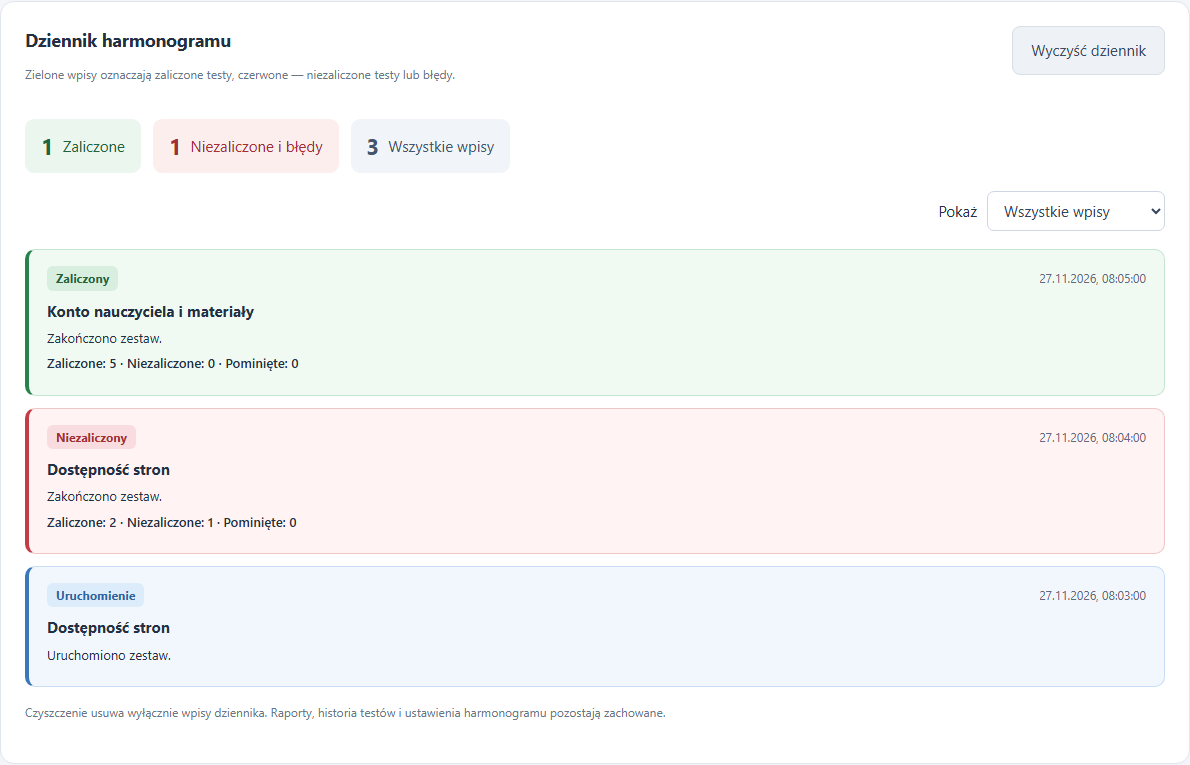
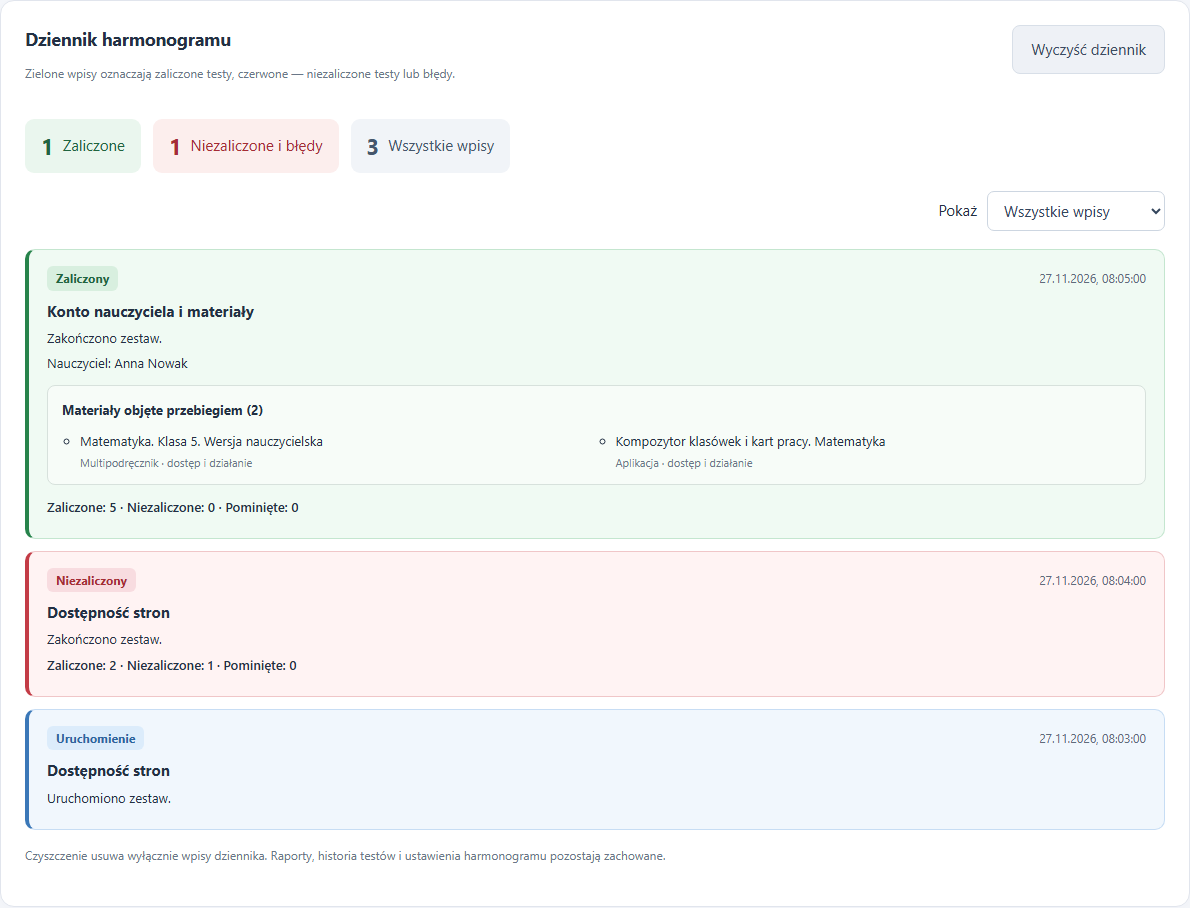
Clarify schedule selection, add dark theme and show run materials

diff --git a/dashboard/schedule.js b/dashboard/schedule.js
@@ -1,10 +1,25 @@
 (()=>{
- const $=s=>document.querySelector(s),form=$('#schedule-form');let saved=null,dirty=false,pending=false,revision=-1;
+ const $=s=>document.querySelector(s),form=$('#schedule-form');let saved=null,dirty=false,pending=false,revision=-1,profiles=[];
  const when=value=>value?new Date(value).toLocaleString('pl-PL',{timeZone:'Europe/Warsaw'}):'—';
  const labels={ENABLED:'Włączono',DISABLED:'Wyłączono',START:'Początek cyklu',RUN:'Uruchomienie',PASS:'Zaliczony',FAIL:'Niezaliczony',ERROR:'Błąd',SKIPPED:'Pominięto',STOP:'Zatrzymano kolejkę',END:'Koniec cyklu'};
- form.addEventListener('input',()=>{dirty=true;});
+ function scope(suites,profileId){
+  const parts=[],teacher=profiles.find(profile=>profile.id===profileId);
+  if(suites.includes('functional')){const resources=(teacher?.resources||[]).filter(resource=>resource.enabled!==false);const count=1+resources.reduce((total,resource)=>total+1+(resource.checkMode==='access'?0:1),0);parts.push('Konto i materiały — '+(teacher?.label||'wybierz nauczyciela')+(resources.length?' ('+count+' kontroli)':' (brak przypisanych materiałów)'));}
+  if(suites.includes('websites'))parts.push('Dostępność stron — 3 kontrole bez logowania');
+  if(suites.includes('services'))parts.push('Endpointy healthcheck — 9 kontroli');
+  return parts.join(' + ');
+ }
+ function renderSelection(){
+  if(!saved)return;
+  const suites=['functional','websites'].filter(suite=>form.elements[suite].checked),note=$('#schedule-selection'),teacherStep=$('#schedule-teacher-step');
+  if(note)note.textContent=suites.length?(dirty?'Do zapisania: ':'Wybrane testy: ')+scope(suites,form.elements.profileId.value):'Nie wybrano testów. Zaznacz co najmniej jeden zestaw.';
+  if(teacherStep)teacherStep.hidden=!form.elements.functional.checked;
+  form.querySelector('[type=submit]').disabled=pending||!suites.length;
+  $('#schedule-now').disabled=pending||saved.running||dirty||!suites.length;
+ }
+ form.addEventListener('input',()=>{dirty=true;renderSelection();});
  const options=()=>({enabled:form.elements.enabled.checked,intervalMinutes:Number(form.elements.intervalMinutes.value),suites:['functional','websites'].filter(s=>form.elements[s].checked),profileId:form.elements.profileId.value,revision:saved.revision});
- async function send(path,input){pending=true;try{const response=await fetch(path,{method:'POST',headers:{'Content-Type':'application/json','X-Health-Token':$('meta[name=health-token]').content},body:JSON.stringify(input)});const data=await response.json();if(!response.ok)throw new Error(data.error);saved=data.schedule;dirty=false;revision=-1;$('#schedule-message').textContent='Zapisano. Rozpoczęty test może się dokończyć.';await window.refreshMojeGwo?.();}catch(e){$('#schedule-message').textContent=e.message;}finally{pending=false;}}
+ async function send(path,input){pending=true;try{const response=await fetch(path,{method:'POST',headers:{'Content-Type':'application/json','X-Health-Token':$('meta[name=health-token]').content},body:JSON.stringify(input)});const data=await response.json();if(!response.ok)throw new Error(data.error);saved=data.schedule;dirty=false;revision=-1;$('#schedule-message').textContent=path.endsWith('/run')?'Uruchomiono zapisane testy.':saved.enabled?'Zapisano wybór testów i włączono harmonogram.':'Zapisano ustawienia. Automatyczne uruchamianie jest wyłączone.';await window.refreshMojeGwo?.();}catch(e){$('#schedule-message').textContent=e.message;}finally{pending=false;}}
  form.onsubmit=e=>{e.preventDefault();void send('/api/schedule',options());};
  $('#schedule-disable').onclick=()=>saved&&send('/api/schedule',{...saved,enabled:false});
  $('#schedule-now').onclick=()=>send('/api/schedule/run',{});
@@ -27,6 +42,13 @@
    const title=document.createElement('strong');title.className='schedule-event-title';title.textContent=({functional:'Konto nauczyciela i materiały',websites:'Dostępność stron',services:'Endpointy healthcheck'})[event.suite]||'Harmonogram';
    const message=document.createElement('p');message.textContent=event.message;
    li.append(top,title,message);
+   if(event.suite==='functional'&&['PASS','FAIL','ERROR'].includes(event.type)){
+    if(event.profileLabel){const teacher=document.createElement('p');teacher.textContent='Nauczyciel: '+event.profileLabel;li.append(teacher);}
+    if(Array.isArray(event.materials)){
+     const box=document.createElement('div');box.className='schedule-materials';const heading=document.createElement('strong');heading.textContent='Materiały objęte przebiegiem ('+event.materials.length+')';box.append(heading);
+     const list=document.createElement('ul');for(const material of event.materials){const item=document.createElement('li');const name=document.createElement('span');name.textContent=material.title;const mode=document.createElement('small');mode.textContent=(material.kind==='multipodrecznik'?'Multipodręcznik':'Aplikacja')+' · '+(material.checkMode==='access'?'tylko dostęp':'dostęp i działanie');item.append(name,mode);list.append(item);}box.append(list);li.append(box);
+    }else if(event.runId){const note=document.createElement('p');note.className='hint';note.textContent='Brak zapisanej listy materiałów dla tego starszego przebiegu. Sprawdź raport.';li.append(note);}
+   }
    if(event.counts){const counts=document.createElement('p');counts.className='schedule-event-counts';counts.textContent='Zaliczone: '+(event.counts.passed||0)+' · Niezaliczone: '+(event.counts.failed||0)+' · Pominięte: '+(event.counts.skipped||0);li.append(counts);}
    if(/^\/report\/[a-f0-9-]{36}\/$/.test(event.report||'')){const link=document.createElement('a');link.href=window.mojeGwoURL(event.report);link.target='_blank';link.rel='noopener';link.textContent='Otwórz raport ↗';li.append(link);}
    return li;
@@ -45,15 +67,14 @@
   finally{pending=false;renderEvents();await window.refreshMojeGwo?.();}
  };
  window.renderSchedule=state=>{
-  if(!state.schedule)return;saved=state.schedule;const s=saved;
+  if(!state.schedule)return;saved=state.schedule;profiles=state.profiles.teachers;const s=saved;
   $('#schedule-status').textContent=s.running?'Cykl w toku':s.enabled?'Harmonogram włączony':'Harmonogram wyłączony';
   $('#schedule-next').textContent=s.enabled?'Następny cykl: '+when(s.nextRunAt)+' · co '+s.intervalMinutes+' min':'Brak zaplanowanego uruchomienia.';
   if(!dirty&&revision!==s.revision){revision=s.revision;form.elements.enabled.checked=s.enabled;form.elements.intervalMinutes.value=s.intervalMinutes;for(const suite of ['functional','websites'])form.elements[suite].checked=s.suites.includes(suite);const select=form.elements.profileId;select.replaceChildren(...state.profiles.teachers.filter(t=>t.enabled).map(t=>{const o=document.createElement('option');o.value=t.id;o.textContent=t.label;return o;}));select.value=s.profileId;}
-  const roots=[];
-  $('#schedule-health-note').textContent=roots.length?'Uwaga: adresy healthchecków wskazują strony główne. Zestaw endpointów będzie wykazywał błędy kontraktu, dopóki nie wpiszesz właściwych endpointów w „Healthcheck usług”.':'Dostępność stron nie wymaga endpointów JSON ani konta nauczyciela. Sprawdzamy publiczne ekrany, bez logowania.';
+  const savedScope=$('#schedule-saved-scope');if(savedScope)savedScope.textContent='Zapisany zakres: '+scope(s.suites,s.profileId);
+  renderSelection();
   $('#schedule-now').disabled=pending||s.running||state.running||state.busy||dirty;
   $('#schedule-disable').disabled=pending||!s.enabled;
-  form.querySelector('[type=submit]').disabled=pending;
   renderEvents();
  };
 })();

diff --git a/dashboard/panel.css b/dashboard/panel.css
@@ -7,3 +7,7 @@
 #service-health-form input[type=url]{width:100%;font:inherit;padding:10px;border:1px solid #cdd6e1;border-radius:6px}#service-health-form label:has(input[type=url]){display:block}#service-health-message,#suite-readiness{color:var(--accent)}
 main,article,.metrics>*{min-width:0}.metrics strong{overflow-wrap:anywhere}@media(max-width:500px){.metrics{grid-template-columns:1fr}.heading select{width:100%}header label{flex-wrap:wrap}}
 .schedule-journal .heading{align-items:flex-start}.schedule-journal h3{margin-bottom:8px}.schedule-summary{display:flex;flex-wrap:wrap;gap:12px;margin:18px 0}.schedule-total{display:flex;align-items:center;gap:9px;padding:10px 16px;border-radius:9px;background:#f1f4f8;color:#45566c}.schedule-total strong{font-size:22px}.schedule-total--pass{background:#eaf6ee;color:#206540}.schedule-total--fail{background:#fceeed;color:#a62c35}.schedule-filter{justify-content:flex-end}.schedule-events{list-style:none;padding:0;margin:16px 0;display:grid;gap:12px}.schedule-event{margin:0;padding:16px 18px;border:1px solid #dce4ed;border-left:4px solid #a5b2c3;border-radius:10px;background:#fafbfd}.schedule-event--pass{border-color:#c4e6cf;border-left-color:#27834b;background:#f0faf3}.schedule-event--fail{border-color:#f0c6c8;border-left-color:#c33c46;background:#fff3f3}.schedule-event--running{border-color:#c7ddf4;border-left-color:#3b78b8;background:#f1f7fd}.schedule-event-top{display:flex;justify-content:space-between;align-items:center;gap:12px;margin-bottom:9px}.schedule-event-top time{font-size:12px;color:#5f6b7c}.schedule-event-badge{padding:3px 9px;border-radius:6px;font-size:12px;font-weight:700;background:#e6ebf1;color:#42536a}.schedule-event--pass .schedule-event-badge{background:#d8efdf;color:#206540}.schedule-event--fail .schedule-event-badge{background:#f8dce0;color:#a62c35}.schedule-event--running .schedule-event-badge{background:#dcecfb;color:#2d649e}.schedule-event-title{display:block;font-size:15px}.schedule-event p{margin:5px 0;font-size:13px}.schedule-event-counts{font-weight:600}.schedule-event a{display:inline-block;margin-top:8px;font-weight:600}.schedule-empty{padding:26px;text-align:center;background:#f6f8fb;border:1px dashed #d1dae6;border-radius:10px;color:#607084}@media(max-width:600px){.schedule-event-top{align-items:flex-start;flex-direction:column;gap:6px}.schedule-filter{justify-content:flex-start}.schedule-total{flex:1;min-width:140px}.schedule-journal .heading button{width:100%}}
+.theme-choice{float:right;margin:0 0 18px 20px}.schedule-setup fieldset{min-width:0;border:1px solid #dce3ed;border-radius:12px;padding:18px 20px;margin:24px 0}.schedule-setup legend{padding:0 8px;font-weight:700;font-size:17px}.schedule-test-choices{display:grid;grid-template-columns:repeat(2,minmax(0,1fr));gap:14px}.schedule-test-choice{align-items:flex-start;margin:0;border:1px solid #dce3ed;border-radius:10px;padding:17px;background:#fafbfd;cursor:pointer}.schedule-test-choice:has(input:checked){border-color:var(--accent);background:#f3f0f8}.schedule-test-choice input{flex:0 0 auto;margin-top:4px}.schedule-test-choice strong,.schedule-test-choice small{display:block}.schedule-test-choice small{margin-top:7px;font-size:13px;line-height:1.6;color:#5f6d80}.schedule-state{padding:16px 20px;border-radius:10px;background:#f3f0f8;border:1px solid #e3dced}.schedule-state p{margin:6px 0;font-size:13px}.schedule-selection{padding:12px 14px;border-radius:8px;background:#eef3f8;font-size:13px;margin:15px 0 0}.schedule-setup input[type=number]{font:inherit;width:100px;padding:9px 12px;border:1px solid #cdd6e1;border-radius:7px;background:white;color:#34465d}.schedule-help{margin-top:24px;font-size:13px;color:#617085}.schedule-help summary{cursor:pointer;font-weight:600}.schedule-help p{margin-top:10px}.schedule-setup label:has(input[type=number]){flex-wrap:wrap}@media(max-width:900px){.schedule-test-choices{grid-template-columns:1fr}}@media(max-width:600px){.theme-choice{float:none;margin:0 0 15px}.schedule-setup fieldset{padding:12px}.schedule-state{padding:12px}.schedule-setup .actions button{width:100%}}
+:root[data-theme=dark]{color-scheme:dark;color:#e2e9f2;background:#101722}:root[data-theme=light]{color-scheme:light}:root[data-theme=dark] body{--accent:#89cfba}:root[data-theme=dark] body[data-environment=prod]{--accent:#bea5df}:root[data-theme=dark] .sidebar,:root[data-theme=dark] article,:root[data-theme=dark] dialog{background:#1a2433;border-color:#354257;color:#e2e9f2}:root[data-theme=dark] nav a,:root[data-theme=dark] small,:root[data-theme=dark] header p,:root[data-theme=dark] .hint,:root[data-theme=dark] th,:root[data-theme=dark] .schedule-help,:root[data-theme=dark] .schedule-test-choice small{color:#acbbcf}:root[data-theme=dark] nav a.active,:root[data-theme=dark] .secondary,:root[data-theme=dark] .teacher-item.selected{background:#2a374c;color:#e4dcf3;border-color:#50617b}:root[data-theme=dark] input:not([type=checkbox]):not([type=hidden]),:root[data-theme=dark] select{background:#131e2e;color:#e2e9f2;border-color:#52617a}:root[data-theme=dark] button:not(.secondary),:root[data-theme=dark] .button{color:#14202e}:root[data-theme=dark] button.teacher-item{color:#e2e9f2;border-color:#48576f}:root[data-theme=dark] dialog details,:root[data-theme=dark] .badge{background:#303b50;color:#d5c3ed}:root[data-theme=dark] td,:root[data-theme=dark] th{border-color:#354257}:root[data-theme=dark] .preview,:root[data-theme=dark] .schedule-selection,:root[data-theme=dark] .schedule-total,:root[data-theme=dark] .schedule-empty{background:#202e42;color:#c6d3e6;border-color:#42516a}:root[data-theme=dark] .schedule-state{background:#2a263b;border-color:#544467}:root[data-theme=dark] .schedule-setup fieldset,:root[data-theme=dark] .schedule-test-choice{border-color:#44546d}:root[data-theme=dark] .schedule-test-choice{background:#172333}:root[data-theme=dark] .schedule-test-choice:has(input:checked){background:#302a42;border-color:#bea5df}:root[data-theme=dark] .schedule-event{background:#202c3d;border-color:#44546d}:root[data-theme=dark] .schedule-event--pass,:root[data-theme=dark] .schedule-total--pass{background:#18362b;border-color:#34674f;color:#a5e2bc}:root[data-theme=dark] .schedule-event--fail,:root[data-theme=dark] .schedule-total--fail{background:#40262d;border-color:#8d4854;color:#ffbdc5}:root[data-theme=dark] .schedule-event--running{background:#1c324d;border-color:#45688e}:root[data-theme=dark] .schedule-event-badge{background:#354157;color:#dce5f3}:root[data-theme=dark] .schedule-event--pass .schedule-event-badge{background:#29513d;color:#b0ecc4}:root[data-theme=dark] .schedule-event--fail .schedule-event-badge{background:#673440;color:#ffd1d7}:root[data-theme=dark] .schedule-event-top time{color:#acbbcf}:root[data-theme=dark] .pass{color:#9cddb6}:root[data-theme=dark] .fail{color:#ffabb7}
+
+.schedule-materials{margin:12px 0;padding:12px 14px;border:1px solid #d7e1dc;border-radius:8px;background:#ffffff70}.schedule-materials>strong{font-size:13px}.schedule-materials ul{display:grid;grid-template-columns:repeat(2,minmax(0,1fr));gap:10px 20px;padding-left:18px;margin:10px 0 0}.schedule-materials li{margin:0;font-size:13px}.schedule-materials small{display:block;font-size:11px;margin-top:3px}:root[data-theme=dark] .schedule-materials{background:#10172255;border-color:#4c6258}:root[data-theme=dark] dialog [role=alert],:root[data-theme=dark] #teacher-message{color:#ffb3be}@media(max-width:700px){.schedule-materials ul{grid-template-columns:1fr}}

diff --git a/dashboard/theme.js b/dashboard/theme.js
@@ -1,0 +1,9 @@
+(() => {
+ const key='qa_ui_theme',allowed=['auto','light','dark'],system=matchMedia('(prefers-color-scheme: dark)');
+ function read(){try{const cookie=document.cookie.split(';').map(part=>part.trim()).find(part=>part.startsWith(key+'='));const value=cookie?decodeURIComponent(cookie.slice(key.length+1)):localStorage.getItem(key);return allowed.includes(value)?value:'auto';}catch{return 'auto';}}
+ function apply(value){document.documentElement.dataset.theme=value==='auto'?(system.matches?'dark':'light'):value;document.documentElement.dataset.themePreference=value;const select=document.querySelector('#theme-mode');if(select)select.value=value;}
+ function refresh(){apply(read());}
+ refresh();
+ document.addEventListener('DOMContentLoaded',()=>{refresh();document.querySelector('#theme-mode')?.addEventListener('change',event=>{const value=event.target.value;if(!allowed.includes(value))return;try{localStorage.setItem(key,value);document.cookie=key+'='+value+'; Path=/; Max-Age=31536000; SameSite=Strict';}catch{}apply(value);});});
+ system.addEventListener('change',refresh);addEventListener('storage',refresh);addEventListener('focus',refresh);
+})();

diff --git a/README.md b/README.md
@@ -25,6 +25,8 @@ npm.cmd run panel
 
 Otwórz adres wyświetlony w terminalu. Panel próbuje portu **4182**, następnie **4184**, a w razie konfliktu wybiera inny wolny port. W panelu dodawaj nauczycieli, pobieraj ich dostępy i wybieraj materiały do testów.
 
+W prawym górnym rogu wybierz **Motyw: Jasny / Ciemny / Systemowy**. Panel zapamiętuje wybór i korzysta z tego samego ustawienia co lokalne Centrum testów.
+
 ## Technologie i zakres testów
 
 - **Node.js / JavaScript (ES Modules)** — lokalny serwer HTTP, panel i obsługa środowisk.
@@ -102,12 +104,24 @@ Regulamin może zostać zaakceptowany automatycznie tylko przy zapisanej zgodzie
 
 ## Harmonogram
 
-W panelu **PROD → Harmonogram** wybierz odstęp, zestawy i nauczyciela, włącz automatyczne wykonywanie i zapisz. Komputer i panel muszą działać; samą kartę przeglądarki można zamknąć. Zestawy wykonują się kolejno, a zajęty termin jest pomijany. Harmonogram można wyłączyć w tym samym widoku. Testy obciążeniowe nie są uruchamiane z harmonogramu.
+W panelu **PROD → Harmonogram**:
+
+1. Zaznacz testy: **Konto nauczyciela i materiały**, **Dostępność stron** albo oba zestawy. Opisy przy wyborze wyjaśniają ich zakres.
+2. Dla testów konta wybierz nauczyciela. Panel pokaże jego zakres i liczbę kontroli. Same testy dostępności stron nie wymagają konta.
+3. Ustaw odstęp, zaznacz automatyczne uruchamianie i kliknij **Zapisz wybór i harmonogram**. Podsumowanie rozróżnia zapisany zakres i zmiany oczekujące na zapis.
+
+Komputer i panel muszą działać; samą kartę przeglądarki można zamknąć. Wybrane zestawy wykonują się kolejno, a zajęty termin jest pomijany. Harmonogram można wyłączyć w tym samym widoku. Testy obciążeniowe nie są uruchamiane z harmonogramu.
 
 Dziennik oznacza zaliczone testy na zielono, a niezaliczone i błędy na czerwono. Można filtrować wyniki oraz użyć **Wyczyść dziennik** — raporty, historia testów i ustawienia pozostają zachowane.
 
+Przy wyniku zestawu konta widoczna jest nazwa nauczyciela i lista materiałów objętych przebiegiem wraz z zakresem kontroli. Lista pochodzi z zapisanej konfiguracji tego uruchomienia; późniejsza edycja profilu jej nie zmienia. Szczegółowe wyniki kontroli są w raporcie.
+
 <details>
 <summary>Przykładowy dziennik harmonogramu</summary>
+
+![Wybór testów i nauczyciela w harmonogramie](docs/images/harmonogram-wybor-testow.png)
+
+![Harmonogram w ciemnym motywie](docs/images/harmonogram-ciemny.png)
 
 ![Kolorowe wyniki, filtry i czyszczenie dziennika](docs/images/dziennik-harmonogramu.png)
 
